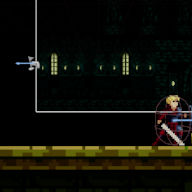
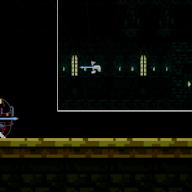
inventory - basic selection works yay!

diff --git a/Source/TG/UI/ExplorerMode/InventoryWidget.cpp b/Source/TG/UI/ExplorerMode/InventoryWidget.cpp
@@ -17,6 +17,9 @@ void UInventoryWidget::NativeConstruct()
 
 	AddDelegateBindings();
 
+	currentlyActiveSlot = FVector2D(1, 1);
+	
+
 // 	FTimerHandle dsa;
 // 	GetWorld()->GetTimerManager().SetTimer(dsa, this, &UInventoryWidget::CreateInventorySlots, 1.f, false);
 }
@@ -57,6 +60,8 @@ void UInventoryWidget::CreateInventorySlots()
 		wInvSlot->refSizeBoxSlotSize->SetHeightOverride(invSize);
 		
 	}
+
+	HighlightSelectedSlot();
 }
 
 void UInventoryWidget::AddDelegateBindings()
@@ -67,23 +72,55 @@ void UInventoryWidget::AddDelegateBindings()
 
 void UInventoryWidget::MoveInInventory(EMoveDirections iMoveDir)
 {
+	FVector2D l_targetDirection = currentlyActiveSlot;
 	switch (iMoveDir)
 	{
 	case EMoveDirections::UP:
-
 		UE_LOG(LogTemp, Warning, TEXT("UP"));
+		l_targetDirection.X -= 1;
 		break;
 	case EMoveDirections::DOWN:
-
+		l_targetDirection.X += 1;
 		UE_LOG(LogTemp, Warning, TEXT("DOWN"));
 		break;
 	case EMoveDirections::LEFT:
-
+		l_targetDirection.Y -= 1;
 		UE_LOG(LogTemp, Warning, TEXT("LEFT"));
 		break;
 	case EMoveDirections::RIGHT:
-
+		l_targetDirection.Y += 1;
 		UE_LOG(LogTemp, Warning, TEXT("RIGHT"));
 		break;
 	}
+	if (mapRefInventorySlots.Find(l_targetDirection))
+	{
+		SelectNeighbourSlot(l_targetDirection);
+	}
+	else
+	{
+		UE_LOG(LogTemp, Warning, TEXT("direction where I wanted to move was invalid."));
+	}
+	
+}
+
+void UInventoryWidget::HighlightSelectedSlot()
+{
+	UInventorySlot* l_ref = *mapRefInventorySlots.Find(currentlyActiveSlot);
+	l_ref->slotData.bIsSelected = true;
+	l_ref->UpdateInventoryButtonBackgroundType();
+}
+
+void UInventoryWidget::DeHighlightLastSelectedSlot()
+{
+	UInventorySlot* l_ref = *mapRefInventorySlots.Find(lastActiveSlot);
+	l_ref->slotData.bIsSelected = false;
+	l_ref->UpdateInventoryButtonBackgroundType();
+}
+
+void UInventoryWidget::SelectNeighbourSlot(FVector2D iTarget)
+{
+	lastActiveSlot = currentlyActiveSlot;
+	currentlyActiveSlot = iTarget;
+	DeHighlightLastSelectedSlot();
+	HighlightSelectedSlot();
 }

diff --git a/Source/TG/UI/ExplorerMode/InventorySlot.cpp b/Source/TG/UI/ExplorerMode/InventorySlot.cpp
@@ -11,16 +11,18 @@ void UInventorySlot::UpdateInventoryButtonBackgroundType()
 {
 
 	FSlateBrush brush;
-	switch (slotData.currentSelectedOrNormal)
+
+	if (slotData.bIsSelected)
 	{
-	case EInventoryButtonBackgroundType::NORMAL:
+		//is selected
+		brush.SetResourceObject(itemBackgroundSelected);
+		refBorderSingleSlot->SetBrush(brush);
+	}
+	else
+	{
+		//normal
 		brush.SetResourceObject(itemBackgroundNormal);
 		refBorderSingleSlot->SetBrush(brush);
-		break;
-	case EInventoryButtonBackgroundType::SELECTED:
-		brush.SetResourceObject(itemBackgroundNormal);
-		refBorderSingleSlot->SetBrush(brush);
-		break;
 	}
 }
 

diff --git a/Source/TG/UI/ExplorerMode/InventoryWidget.h b/Source/TG/UI/ExplorerMode/InventoryWidget.h
@@ -43,4 +43,16 @@ protected:
 	//dont forget to update the class in WBP with the BP one
 	UPROPERTY(EditAnywhere, BlueprintReadWrite)
 		TSubclassOf<UInventorySlot> invSlotClass; 
+
+	//inventory selection what do i need to do
+	//move up/down/left/right, add the selected img on selected one and normal one on last.
+	
+	FVector2D currentlyActiveSlot;
+	FVector2D lastActiveSlot;
+
+	//Making 2 of these instead of one function with inputs because i think this is a little bit easier to understand
+	void HighlightSelectedSlot();
+	void DeHighlightLastSelectedSlot();
+
+	void SelectNeighbourSlot(FVector2D iTarget);
 };

diff --git a/Source/TG/UI/ExplorerMode/InventorySlot.h b/Source/TG/UI/ExplorerMode/InventorySlot.h
@@ -16,7 +16,7 @@ struct FInventorySlotData
 	{
 		slotType = EInventoryType::BAG;
 		slotIndex = 0;
-		currentSelectedOrNormal = EInventoryButtonBackgroundType::NORMAL;
+		bIsSelected = false;
 	}
 
 	UPROPERTY(EditAnywhere)
@@ -24,7 +24,7 @@ struct FInventorySlotData
 	UPROPERTY(EditAnywhere)
 		int32 slotIndex;
 	UPROPERTY(EditAnywhere)
-		EInventoryButtonBackgroundType currentSelectedOrNormal;
+		bool bIsSelected;
 
 };
 

diff --git a/Source/TG/Enumerations.h b/Source/TG/Enumerations.h
@@ -62,12 +62,6 @@ enum class EInventoryType : uint8
 	SHOP					UMETA(DisplayName = "SHOP"),
 };
 
-UENUM(BlueprintType)
-enum class EInventoryButtonBackgroundType : uint8
-{
-	NORMAL						UMETA(DisplayName = "NORMAL"),
-	SELECTED					UMETA(DisplayName = "SELECTED"),
-};
 
 UENUM(BlueprintType)
 enum class EMoveDirections : uint8

diff --git a/Source/TG/Libraries/InventoryLibrary.cpp b/Source/TG/Libraries/InventoryLibrary.cpp
@@ -9,7 +9,7 @@ float UInventoryLibrary::GetInventorySlotSize(EInventoryType iInventoryType)
 	switch (iInventoryType)
 	{
 	case EInventoryType::BAG:
-		l_slotSize = 50;
+		l_slotSize = 75.0;
 		break;
 	case EInventoryType::CHEST:
 		l_slotSize = 45.0;
